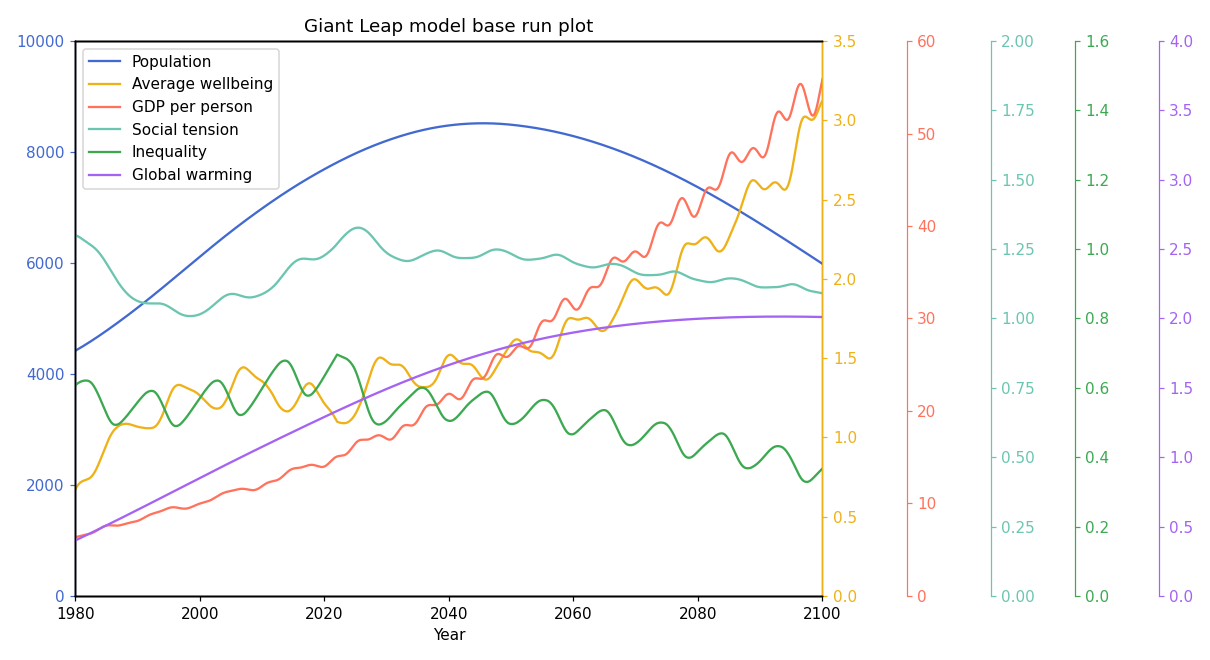
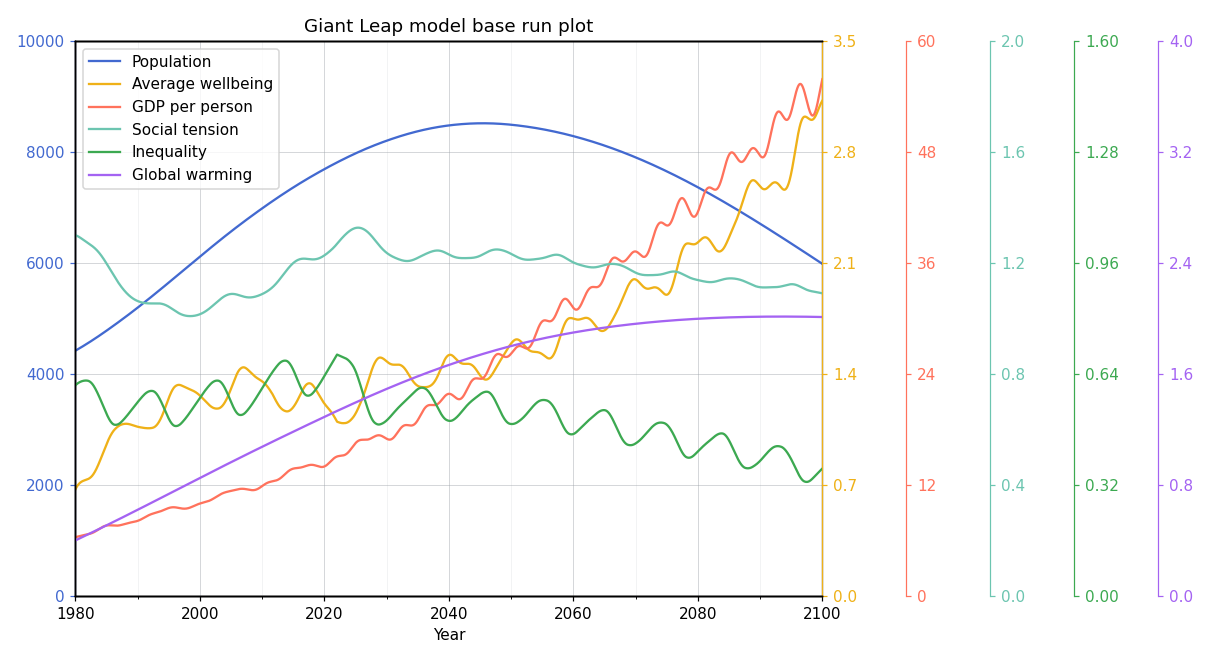
feat(plotting): draw a grid behind the figures
Reading a maximum off a curve took counting pixels. Every figure now has
a grid: major lines at the labelled years and values, lighter ones
halfway between.

On the figures that stack several vertical axes, each axis is given the
same number of ticks, so they fall at the same heights and one horizontal
line can be read against all of them at once. When the axes are hidden
only the years are gridded, a horizontal line having nothing left to be
read against.

diff --git a/earth4all/plotting.py b/earth4all/plotting.py
@@ -17,6 +17,22 @@ _COLOURS = [
 ]
 
 _AXIS_OFFSET = 55  # points between two stacked vertical axes
+_TICKS = 6  # ticks per vertical axis; the same count on all of them lines them up
+_GRID = {"color": "#9aa0a6", "linewidth": 0.6, "alpha": 0.45}
+_MINOR_GRID = {"color": "#9aa0a6", "linewidth": 0.4, "alpha": 0.2}
+
+
+def _draw_grid(axes, vertical=True, horizontal=True):
+    """Put a grid behind the lines, with lighter lines between the labelled ones."""
+    from matplotlib.ticker import AutoMinorLocator
+
+    axes.set_axisbelow(True)
+    axes.xaxis.set_minor_locator(AutoMinorLocator(2))
+    if vertical:
+        axes.grid(axis="x", which="major", **_GRID)
+        axes.grid(axis="x", which="minor", **_MINOR_GRID)
+    if horizontal:
+        axes.grid(axis="y", which="major", **_GRID)
 
 
 def plotvariables(
@@ -26,14 +42,19 @@ def plotvariables(
     title="",
     showaxis=True,
     showlegend=True,
+    showgrid=True,
     figsize=(11, 6),
 ):
     """Draw `variables` of `solution` over `xrange` on a single figure.
 
     Each entry of `variables` is a `(variable, ymin, ymax, label)` tuple, as in
     the Julia code: the bounds set the scale of that variable's own axis.
+
+    Every vertical axis is given the same number of ticks, so they fall at the
+    same heights and one horizontal gridline can be read against all of them.
     """
     import matplotlib.pyplot as plt
+    from matplotlib.ticker import LinearLocator
 
     figure, axes = plt.subplots(figsize=figsize)
     start, stop = xrange[-2], xrange[-1]
@@ -51,14 +72,20 @@ def plotvariables(
         )
         lines.append(line)
         target.set_ylim(ymin, ymax)
+        target.yaxis.set_major_locator(LinearLocator(_TICKS))
         if showaxis:
             target.tick_params(axis="y", colors=colour)
             target.spines["right" if index else "left"].set_color(colour)
         else:
-            target.set_yticks([])
+            target.tick_params(axis="y", left=False, right=False, labelleft=False,
+                               labelright=False)
 
     axes.set_xlim(start, stop)
     axes.set_xlabel("Year")
+    if showgrid:
+        # Without the labels of the vertical axes, a horizontal line reads
+        # against nothing, so only the years get a grid.
+        _draw_grid(axes, horizontal=showaxis)
     if title:
         axes.set_title(title)
     if showlegend and any(line.get_label() for line in lines):
@@ -68,9 +95,14 @@ def plotvariables(
 
 
 def plot_two_solutions(
-    name1, solution1, name2, solution2, variables, xrange=(1980, 2100), figsize=(11, 6),
+    name1, solution1, name2, solution2, variables, xrange=(1980, 2100),
+    showgrid=True, figsize=(11, 6),
 ):
-    """Compare the same variables in two solutions, one panel per variable."""
+    """Compare the same variables in two solutions, one panel per variable.
+
+    Each panel has a vertical axis of its own, so its grid can be read straight
+    off: where a curve turns over, and at what value.
+    """
     import matplotlib.pyplot as plt
 
     figure, axes = plt.subplots(
@@ -90,6 +122,8 @@ def plot_two_solutions(
             )
         panel.set_ylabel(label)
         panel.set_xlim(start, stop)
+        if showgrid:
+            _draw_grid(panel)
     axes[0, 0].legend(loc="upper left")
     axes[-1, 0].set_xlabel("Year")
     figure.tight_layout()

diff --git a/tests/test_plotting.py b/tests/test_plotting.py
@@ -1,0 +1,84 @@
+"""The figures: what they draw, and the grid they draw it on."""
+
+import matplotlib
+
+matplotlib.use("Agg")
+
+import pytest  # noqa: E402  (the backend has to be set first)
+
+from earth4all.functions import add_equation  # noqa: E402
+from earth4all.plotting import plot_two_solutions, plotvariables  # noqa: E402
+from earth4all.symbolics import D, t  # noqa: E402
+from earth4all.system import ODESystem, compose, solve  # noqa: E402
+
+
+@pytest.fixture(scope="module")
+def solution():
+    sector = ODESystem("s")
+    rising = sector.variable("rising", init=0.0)
+    large = sector.variable("large")
+    add_equation(sector.equations, D(rising), 1.0)
+    add_equation(sector.equations, large, 1000 * (t + 1))
+    return solve(compose([sector]), (1980, 2100), dt=1.0)
+
+
+def variables_of(solution):
+    return [
+        (solution.model.variable("s.rising"), 0, 120, "Rising"),
+        (solution.model.variable("s.large"), 0, 250000, "Large"),
+    ]
+
+
+def test_one_line_is_drawn_per_variable(solution):
+    figure = plotvariables(solution, (1980, 2100), variables_of(solution))
+    assert sum(len(axes.lines) for axes in figure.axes) == 2
+
+
+def test_each_variable_keeps_the_scale_it_was_given(solution):
+    figure = plotvariables(solution, (1980, 2100), variables_of(solution))
+    assert [axes.get_ylim() for axes in figure.axes] == [(0, 120), (0, 250000)]
+
+
+def test_the_vertical_axes_have_their_ticks_at_the_same_heights(solution):
+    """What lets one horizontal gridline be read against every scale at once."""
+    figure = plotvariables(solution, (1980, 2100), variables_of(solution))
+    heights = [
+        [(tick - axes.get_ylim()[0]) / (axes.get_ylim()[1] - axes.get_ylim()[0])
+         for tick in axes.get_yticks()]
+        for axes in figure.axes
+    ]
+    assert heights[0] == pytest.approx(heights[1])
+
+
+def test_the_grid_is_on_by_default_and_behind_the_lines(solution):
+    figure = plotvariables(solution, (1980, 2100), variables_of(solution))
+    axes = figure.axes[0]
+    assert axes.xaxis.get_gridlines()[0].get_visible()
+    assert axes.yaxis.get_gridlines()[0].get_visible()
+    assert axes.get_axisbelow()
+
+
+def test_the_grid_can_be_turned_off(solution):
+    figure = plotvariables(solution, (1980, 2100), variables_of(solution), showgrid=False)
+    assert not figure.axes[0].xaxis.get_gridlines()[0].get_visible()
+
+
+def test_hiding_the_axes_leaves_only_the_years_gridded(solution):
+    """A horizontal line reads against nothing once the scales are gone."""
+    figure = plotvariables(
+        solution, (1980, 2100), variables_of(solution), showaxis=False
+    )
+    axes = figure.axes[0]
+    assert axes.xaxis.get_gridlines()[0].get_visible()
+    assert not axes.yaxis.get_gridlines()[0].get_visible()
+
+
+def test_comparing_two_solutions_gives_a_panel_per_variable(solution):
+    figure = plot_two_solutions(
+        "first", solution, "second", solution,
+        [(solution.model.variable("s.rising"), "Rising"),
+         (solution.model.variable("s.large"), "Large")],
+    )
+    assert len(figure.axes) == 2
+    assert all(len(panel.lines) == 2 for panel in figure.axes)
+    assert all(panel.xaxis.get_gridlines()[0].get_visible() for panel in figure.axes)
